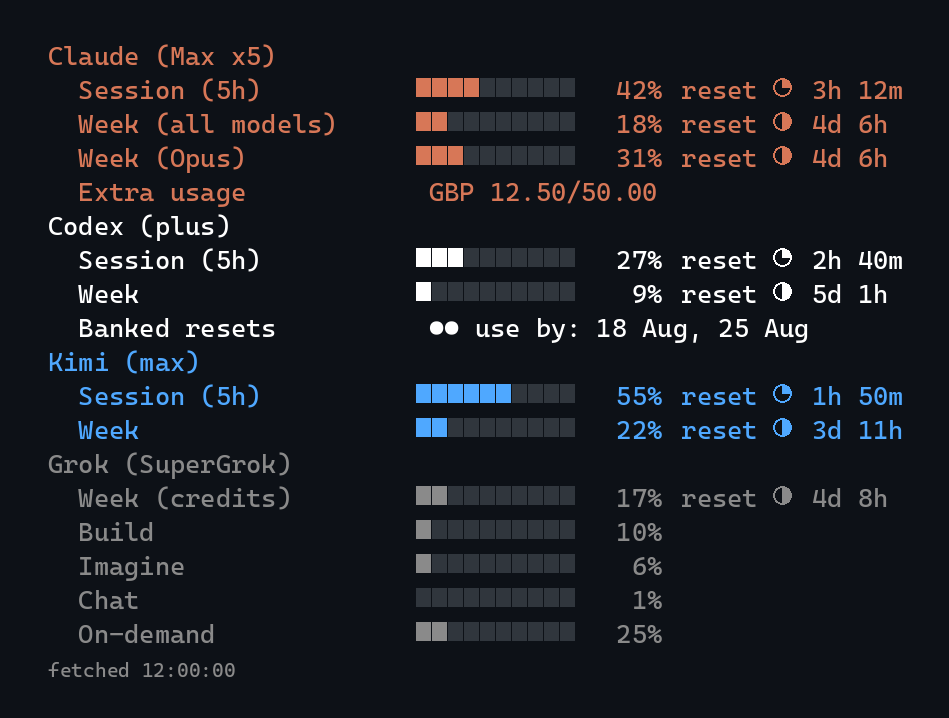
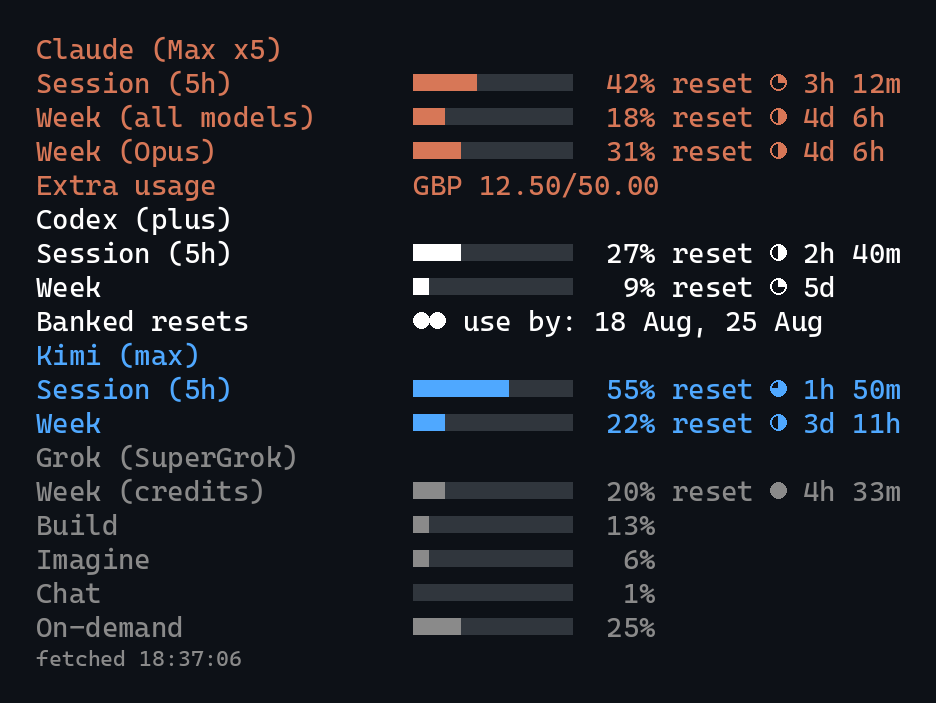
Release 0.1.2: match README screenshot to live /usage layout
Regenerate the synthetic screenshot from the real line() formatter so
Grok week/product bars match terminal output (█░ bars, pie clocks).

diff --git a/README.md b/README.md
@@ -2,7 +2,7 @@
 
 A [pi](https://pi.dev) coding agent extension that adds a `/usage` command showing **subscription quota for every provider you're logged into via pi's OAuth** — one compact, colour-coded block instead of four dashboards.
 
-![Colour-coded usage meters for Claude, Codex, Kimi, and Grok (synthetic fixture data)](https://raw.githubusercontent.com/Quigleybits/pi-usage-meters/2be8e84f8b56fed3c7406eefa21ff9248ed18c68/assets/pi-usage.png)
+![Colour-coded usage meters for Claude, Codex, Kimi, and Grok (synthetic fixture data)](https://raw.githubusercontent.com/Quigleybits/pi-usage-meters/main/assets/pi-usage.png)
 
 Each provider block is colour-coded on your terminal's existing background, bars fill left-to-right with usage, and the pie glyph (`○ ◔ ◑ ◕ ●`) fills as the quota window elapses toward reset. The entry renders in the transcript but never enters LLM context.
 
